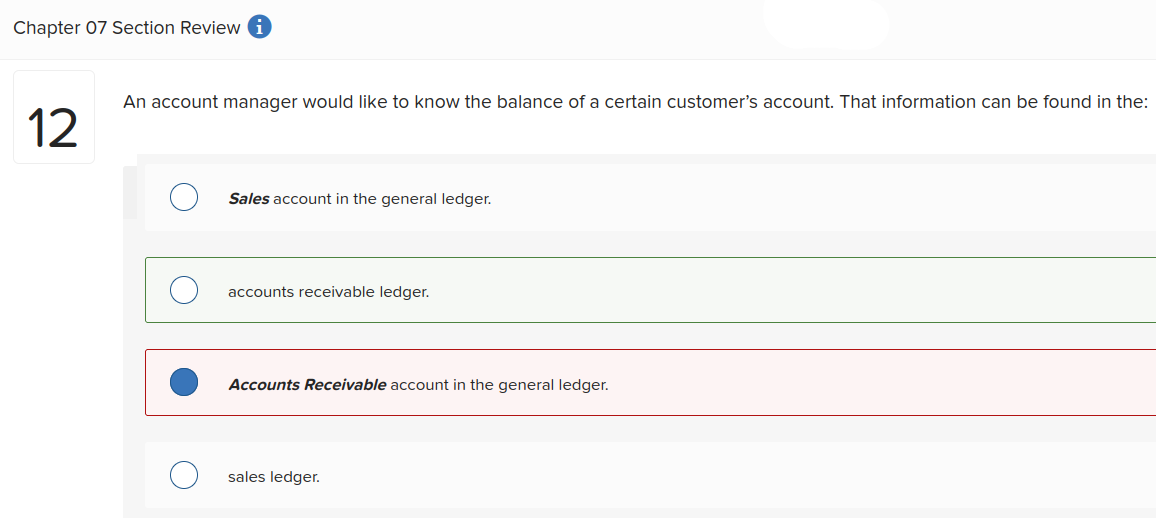
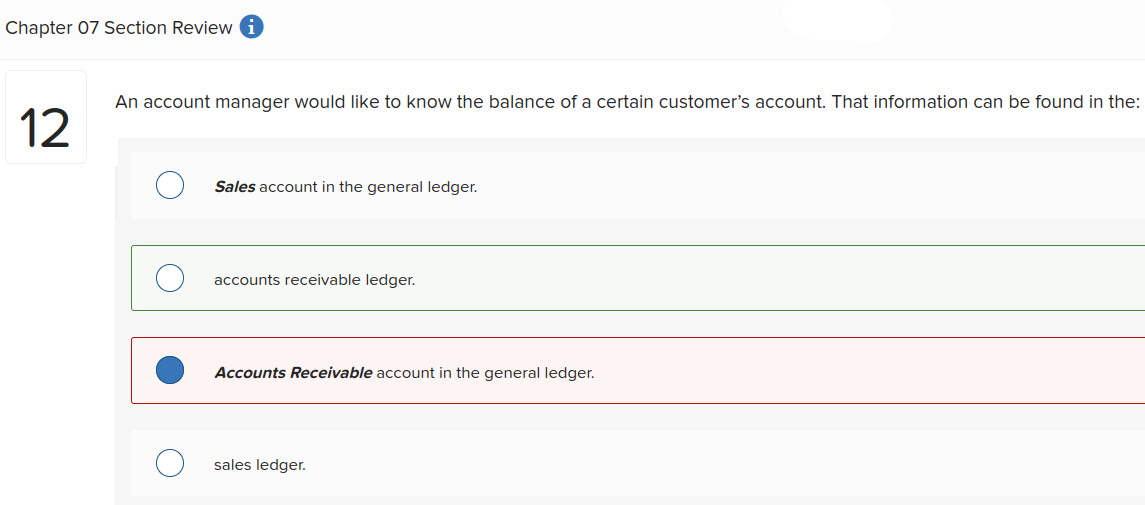
MODS

diff --git a/_pages/study.questions.md b/_pages/study.questions.md
@@ -101,4 +101,5 @@ title: Study Questions
 |94. ![](/WrongQuestions/Screenshot.from.2024-05-06.10-16-28.png)|
 |95. ![](/WrongQuestions/Screenshot.from.2024-05-06.10-16-57.png)|
 |96. ![](/WrongQuestions/Screenshot%20from%202024-05-08%2011-51-58.png)|
-
+|97. ![](/WrongQuestions/chap6.section.r.no8.png)|
+|98. ![](/WrongQuestions/chap7.sec.rev.q12.png)|
